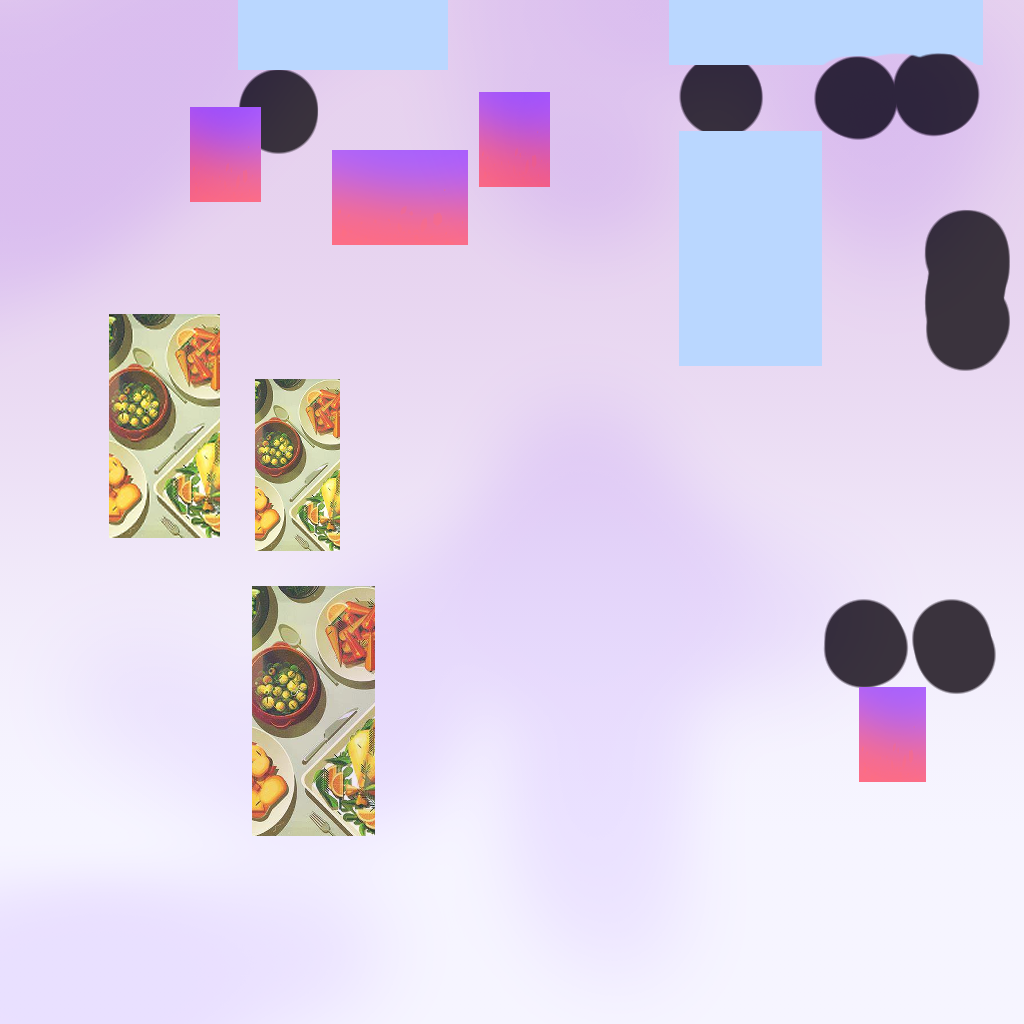
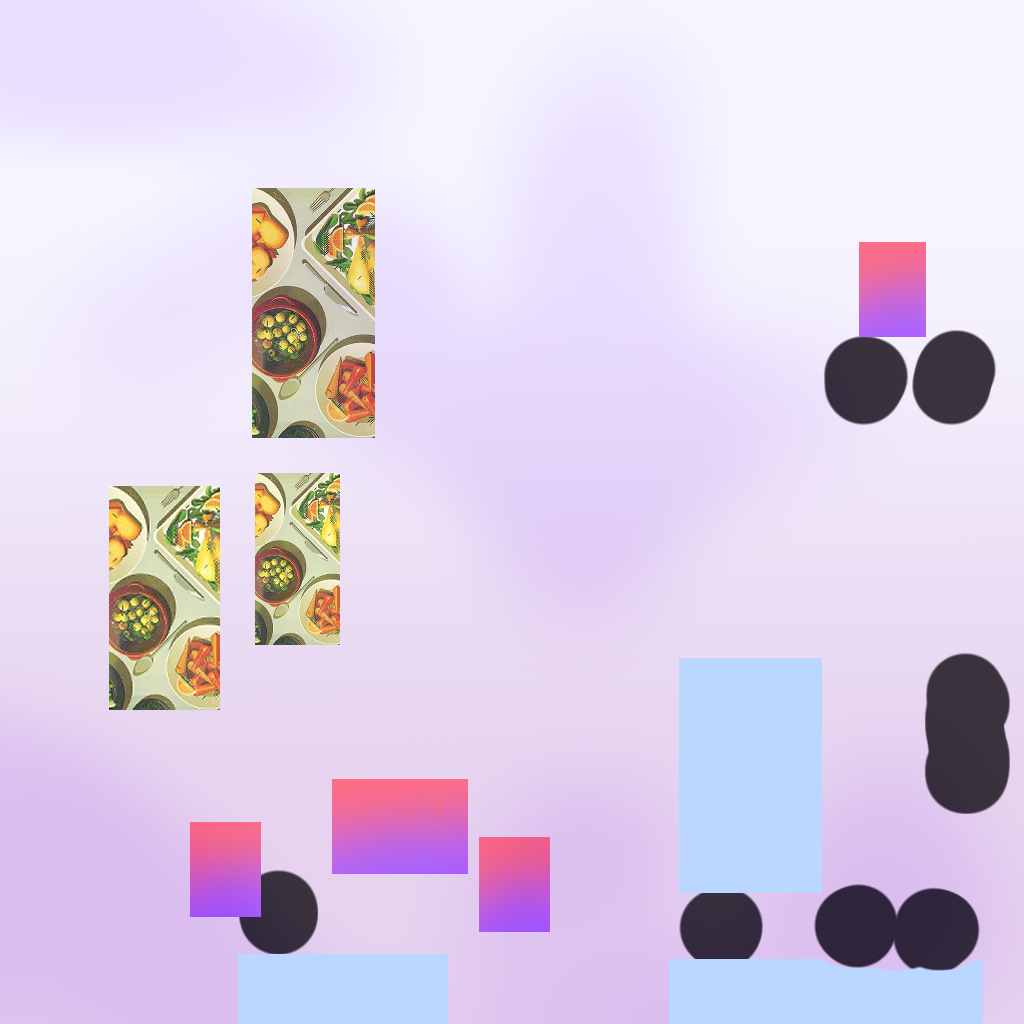
continue map user 3D mais les texture c'est de la merde

diff --git a/FRONT/src/components/Map3DUser.vue b/FRONT/src/components/Map3DUser.vue
@@ -124,13 +124,22 @@ export default {
                 texturebat = new THREE.TextureLoader().load('map/mapData/tex/tex_attrfutur.png');
               }
               if(this.children[i].name.includes("wc")){
+                console.log("wc", this.children[i])
                 texturebat = new THREE.TextureLoader().load('map/mapData/tex/tex_wc.png');
                 const mat_bat = new THREE.MeshPhongMaterial({map: texturebat});
-                //flipY
-                mat_bat.map.flipY = true;
+
+                mat_bat.position = this.children[i].position;
+                mat_bat.rotation = this.children[i].rotation;
+                mat_bat.scale = this.children[i].scale;
                 this.children[i].material = mat_bat;
-                this.children[i].material.metalness = 0;
+                //flipY
+
+                this.children[i].material = mat_bat;
                 this.children[i].receiveShadow = true;
+                this.children[i].material.metalness = 0;
+                this.children[i].material.transparent = true;
+                this.children[i].castShadow = true;
+
                 this.nonselectionables.add(this.children[i]);
                 texturebat = null;
               }
@@ -171,7 +180,8 @@ export default {
                 else {
                   if (this.children[i].name.slice(0, 3) == "dec") {
                     if(this.children[i].name.includes("tree")){
-                      const texturetree = new THREE.TextureLoader().load('map/mapData/tex/tex_tree.png');
+                      var texturetree = new THREE.TextureLoader().load('map/mapData/tex/tex_tree.png');
+                      texturetree.flipY =false;
                       const mattree = new THREE.MeshPhongMaterial({map: texturetree});
                       this.children[i].material = mattree;
                       this.children[i].material.metalness = 0;
@@ -202,6 +212,8 @@ export default {
                     }
                     if(this.children[i].name.includes("Lamp")){
                       const texturetree = new THREE.TextureLoader().load('map/mapData/tex/tex_arcade.png');
+                      texturetree.flipY =false;
+
                       const mattree = new THREE.MeshPhongMaterial({map: texturetree});
                       this.children[i].material = mattree;
                       this.children[i].material.metalness = 0;
@@ -344,6 +356,107 @@ export default {
       mesh.name = "emptet";
       return mesh;
     },
+    onMouseMove(event) {
+      var position = new THREE.Vector2();
+      var domRect = this.renderer.domElement.getBoundingClientRect();
+      position.x = ((event.clientX - domRect.left) / domRect.width) * 2 - 1;
+      position.y = -((event.clientY - domRect.top) / domRect.height) * 2 + 1;
+
+      var temp = this.getSelectionneLePlusProche2(position);
+
+      if (temp == 1) {
+        this.selectedObject = this.getSelectionneLePlusProche(position);
+      } else {
+        this.selectedObject = 0
+      }
+      // Vérifier si l'objet est sélectionnable
+      if (this.selectedObject != 0) {
+        // Changer le curseur en pointeur
+        this.renderer.domElement.style.cursor = 'pointer';
+      } else {
+        // Rétablir le curseur par défaut
+        this.renderer.domElement.style.cursor = 'auto';
+      }
+    },
+
+
+    getSelectionneLePlusProche(position) {
+      // Mise à jour de la position du rayon à lancer.
+      this.raycaster.setFromCamera(position, this.camera);
+      // Obtenir la liste des intersections
+      var selectionnes = this.raycaster.intersectObjects(this.selectionables.children);
+      if (selectionnes.length) {
+        return selectionnes[0].object;
+      } else {
+        return null
+      }
+    },
+
+    getSelectionneLePlusProche2(position) {
+      // Mise à jour de la position du rayon à lancer.
+      this.raycaster.setFromCamera(position, this.camera);
+      // Obtenir la liste des intersections
+      var selectionnes = this.raycaster.intersectObjects(this.selectionables.children);
+      if (selectionnes.length) {
+        return 1;
+      } else {
+        return 0;
+      }
+    },
+
+
+    async onMouseClick(event) {
+      var position = new THREE.Vector2();
+      var domRect = this.renderer.domElement.getBoundingClientRect();
+      position.x = ((event.clientX - domRect.left) / domRect.width) * 2 - 1;
+      position.y = -((event.clientY - domRect.top) / domRect.height) * 2 + 1;
+      var temp = this.getSelectionneLePlusProche2(position);
+
+      if (temp == 1) {
+        this.selectedObject = this.getSelectionneLePlusProche(position);
+      } else {
+        this.selectedObject = 0
+      }
+      if (this.selectedObject != 0) {
+        if (this.selectedObject.name.slice(0,3) == "bat") {
+          let found;
+          found = await getOneBat({name: this.selectedObject.name, posx: this.selectedObject.position.x, posz: this.selectedObject.position.z});
+          if (found != []){
+            found = true;
+          }
+          else {
+            found = false;
+          }
+          if (this.selectab.length == 0 && found) {
+            // Toggle the 'active' class on the selectmenu div
+            document.getElementById('selectmenu').classList.toggle('closed');
+            document.getElementById('selectmenu').classList.toggle('supr');
+            document.getElementById('info').classList.toggle('active');
+            document.getElementById('scene1').classList.toggle('active');
+
+            var info = {obj: this.selectedObject, type: "bat"}
+            this.selectab.push(info);
+          } else {
+            if (this.selectedObject.uuid == this.selectab[0]["obj"].uuid) {
+              // Toggle the 'active' class on the selectmenu div
+              document.getElementById('selectmenu').classList.toggle('closed');
+
+              document.getElementById('scene1').classList.toggle('active');
+              //wait 300ms
+              setTimeout(() => {
+                document.getElementById('info').classList.toggle('active');
+                document.getElementById('selectmenu').classList.toggle('supr');
+              }, 300);
+              this.selectab.pop(0)
+              this.selectedObject = 0
+            } else {
+              console.log("un objet est deja select")
+              this.selectedObject = 0
+            }
+          }
+        }
+        }
+      },
 
 
     handleResize() {
